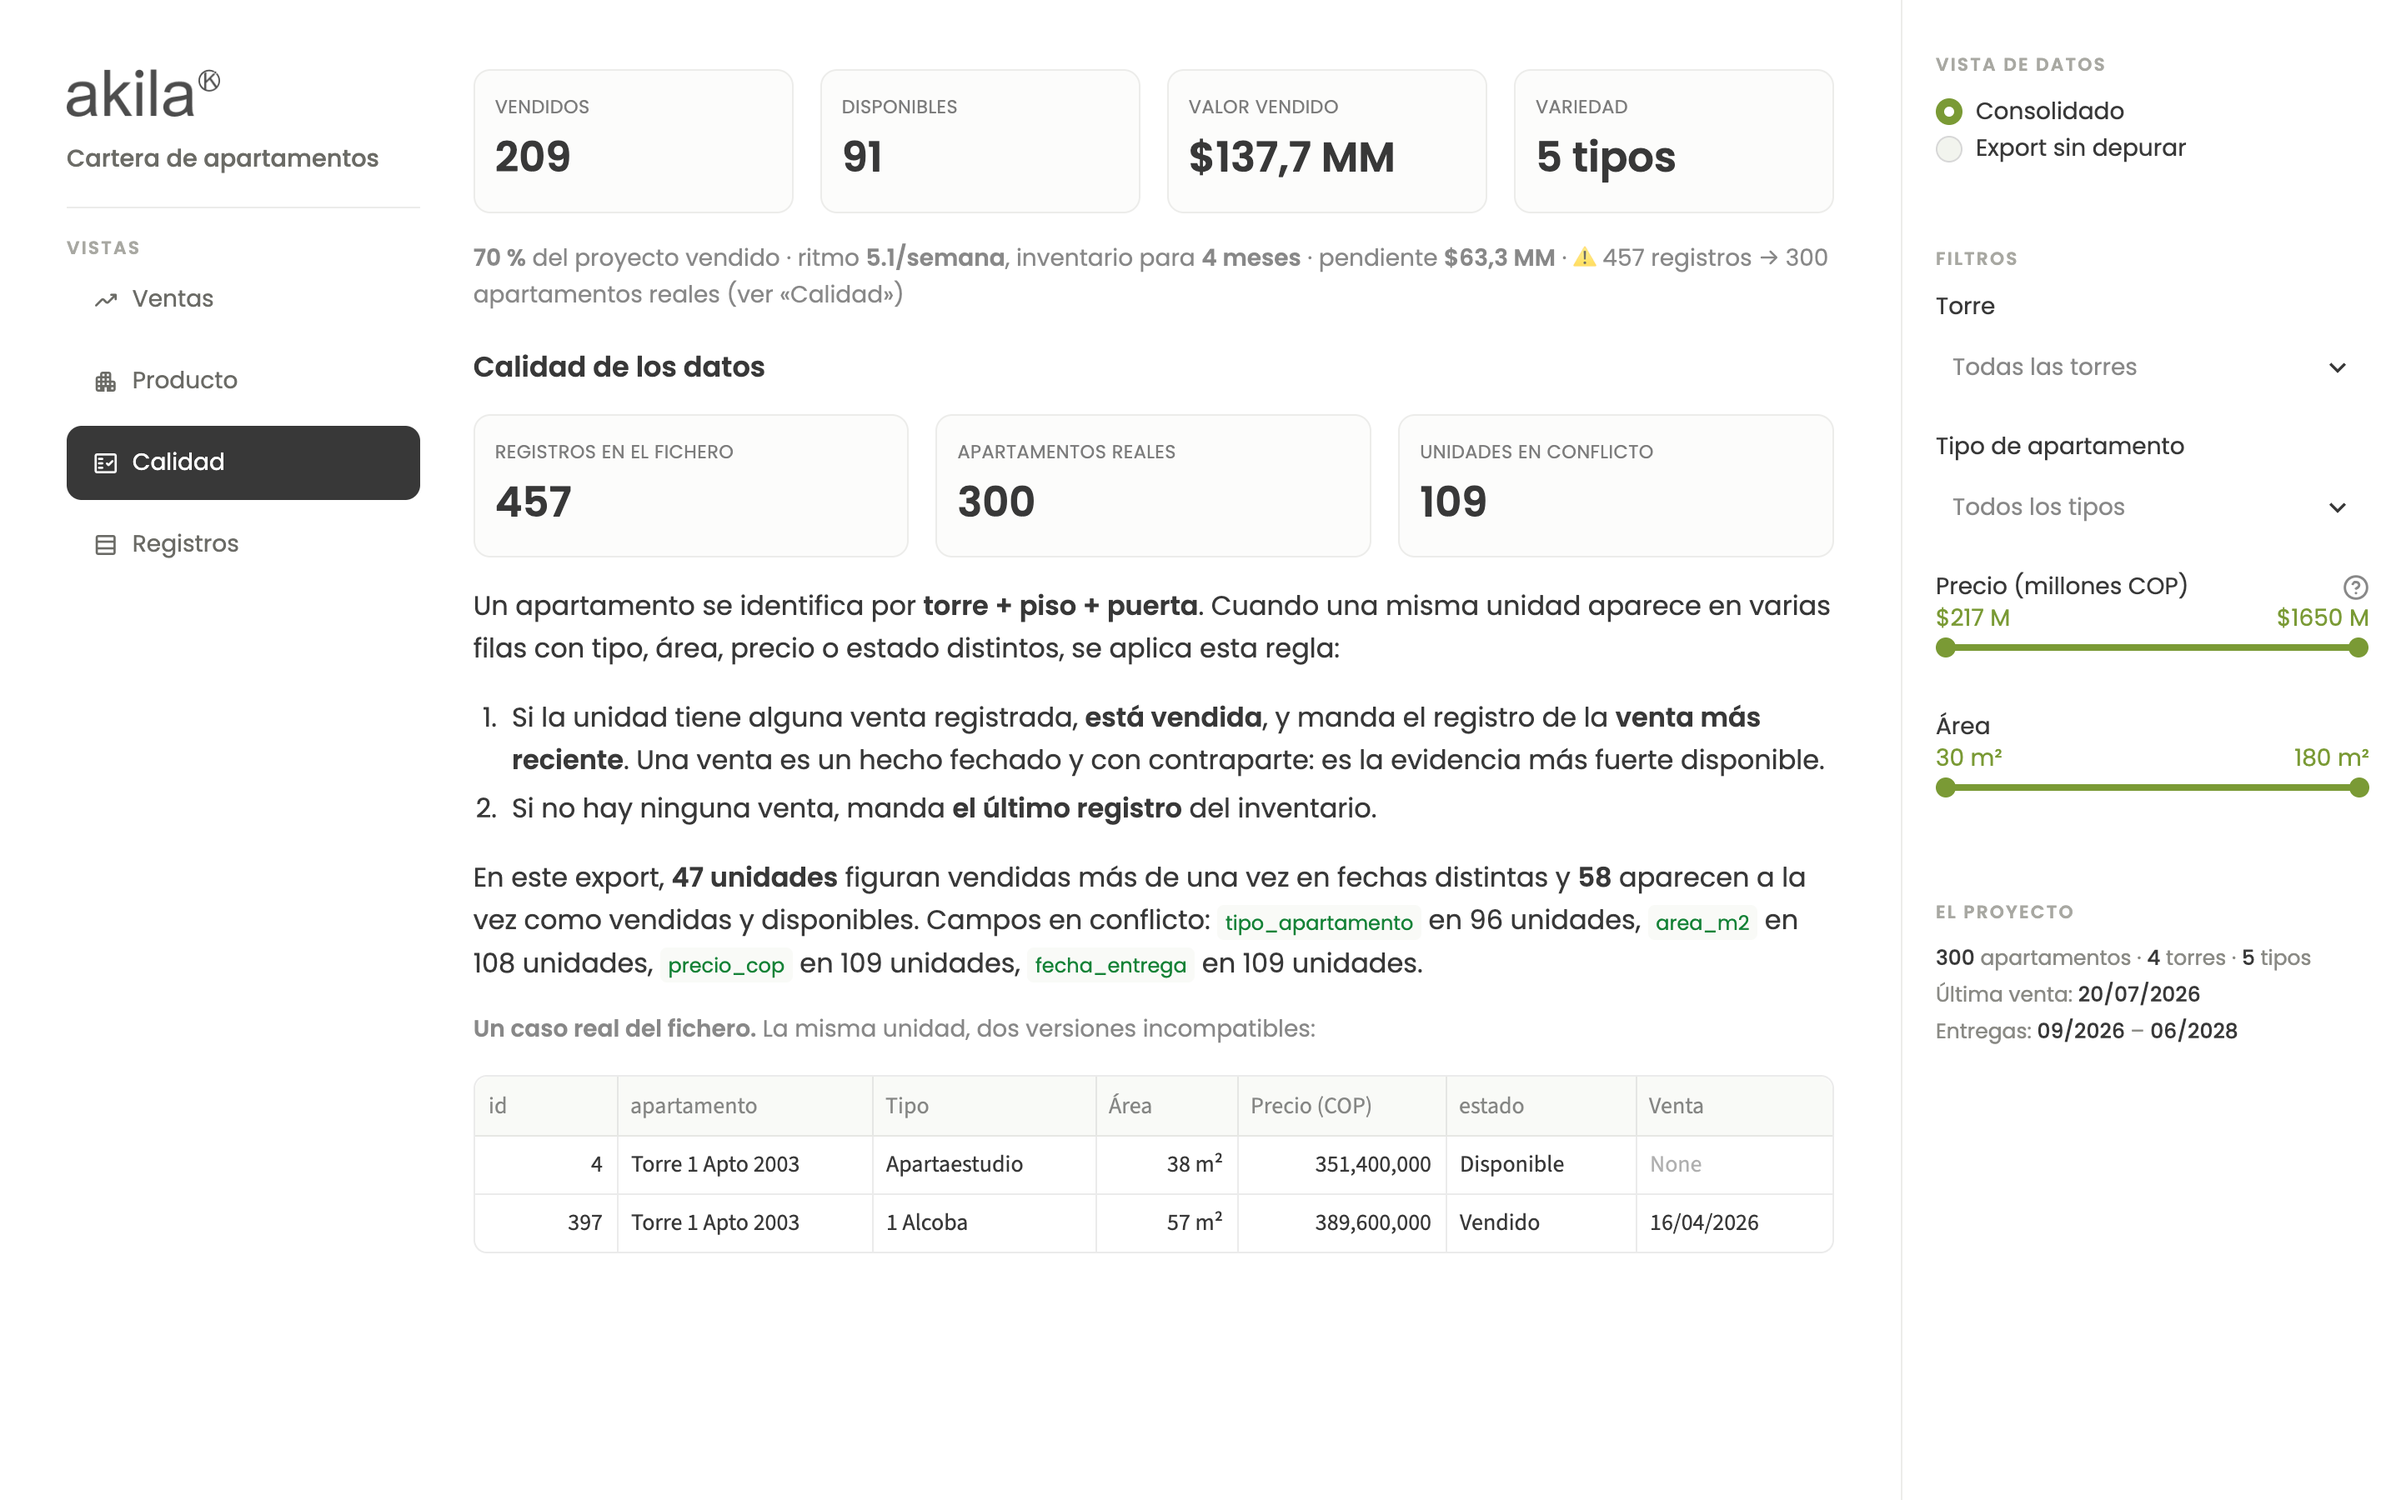
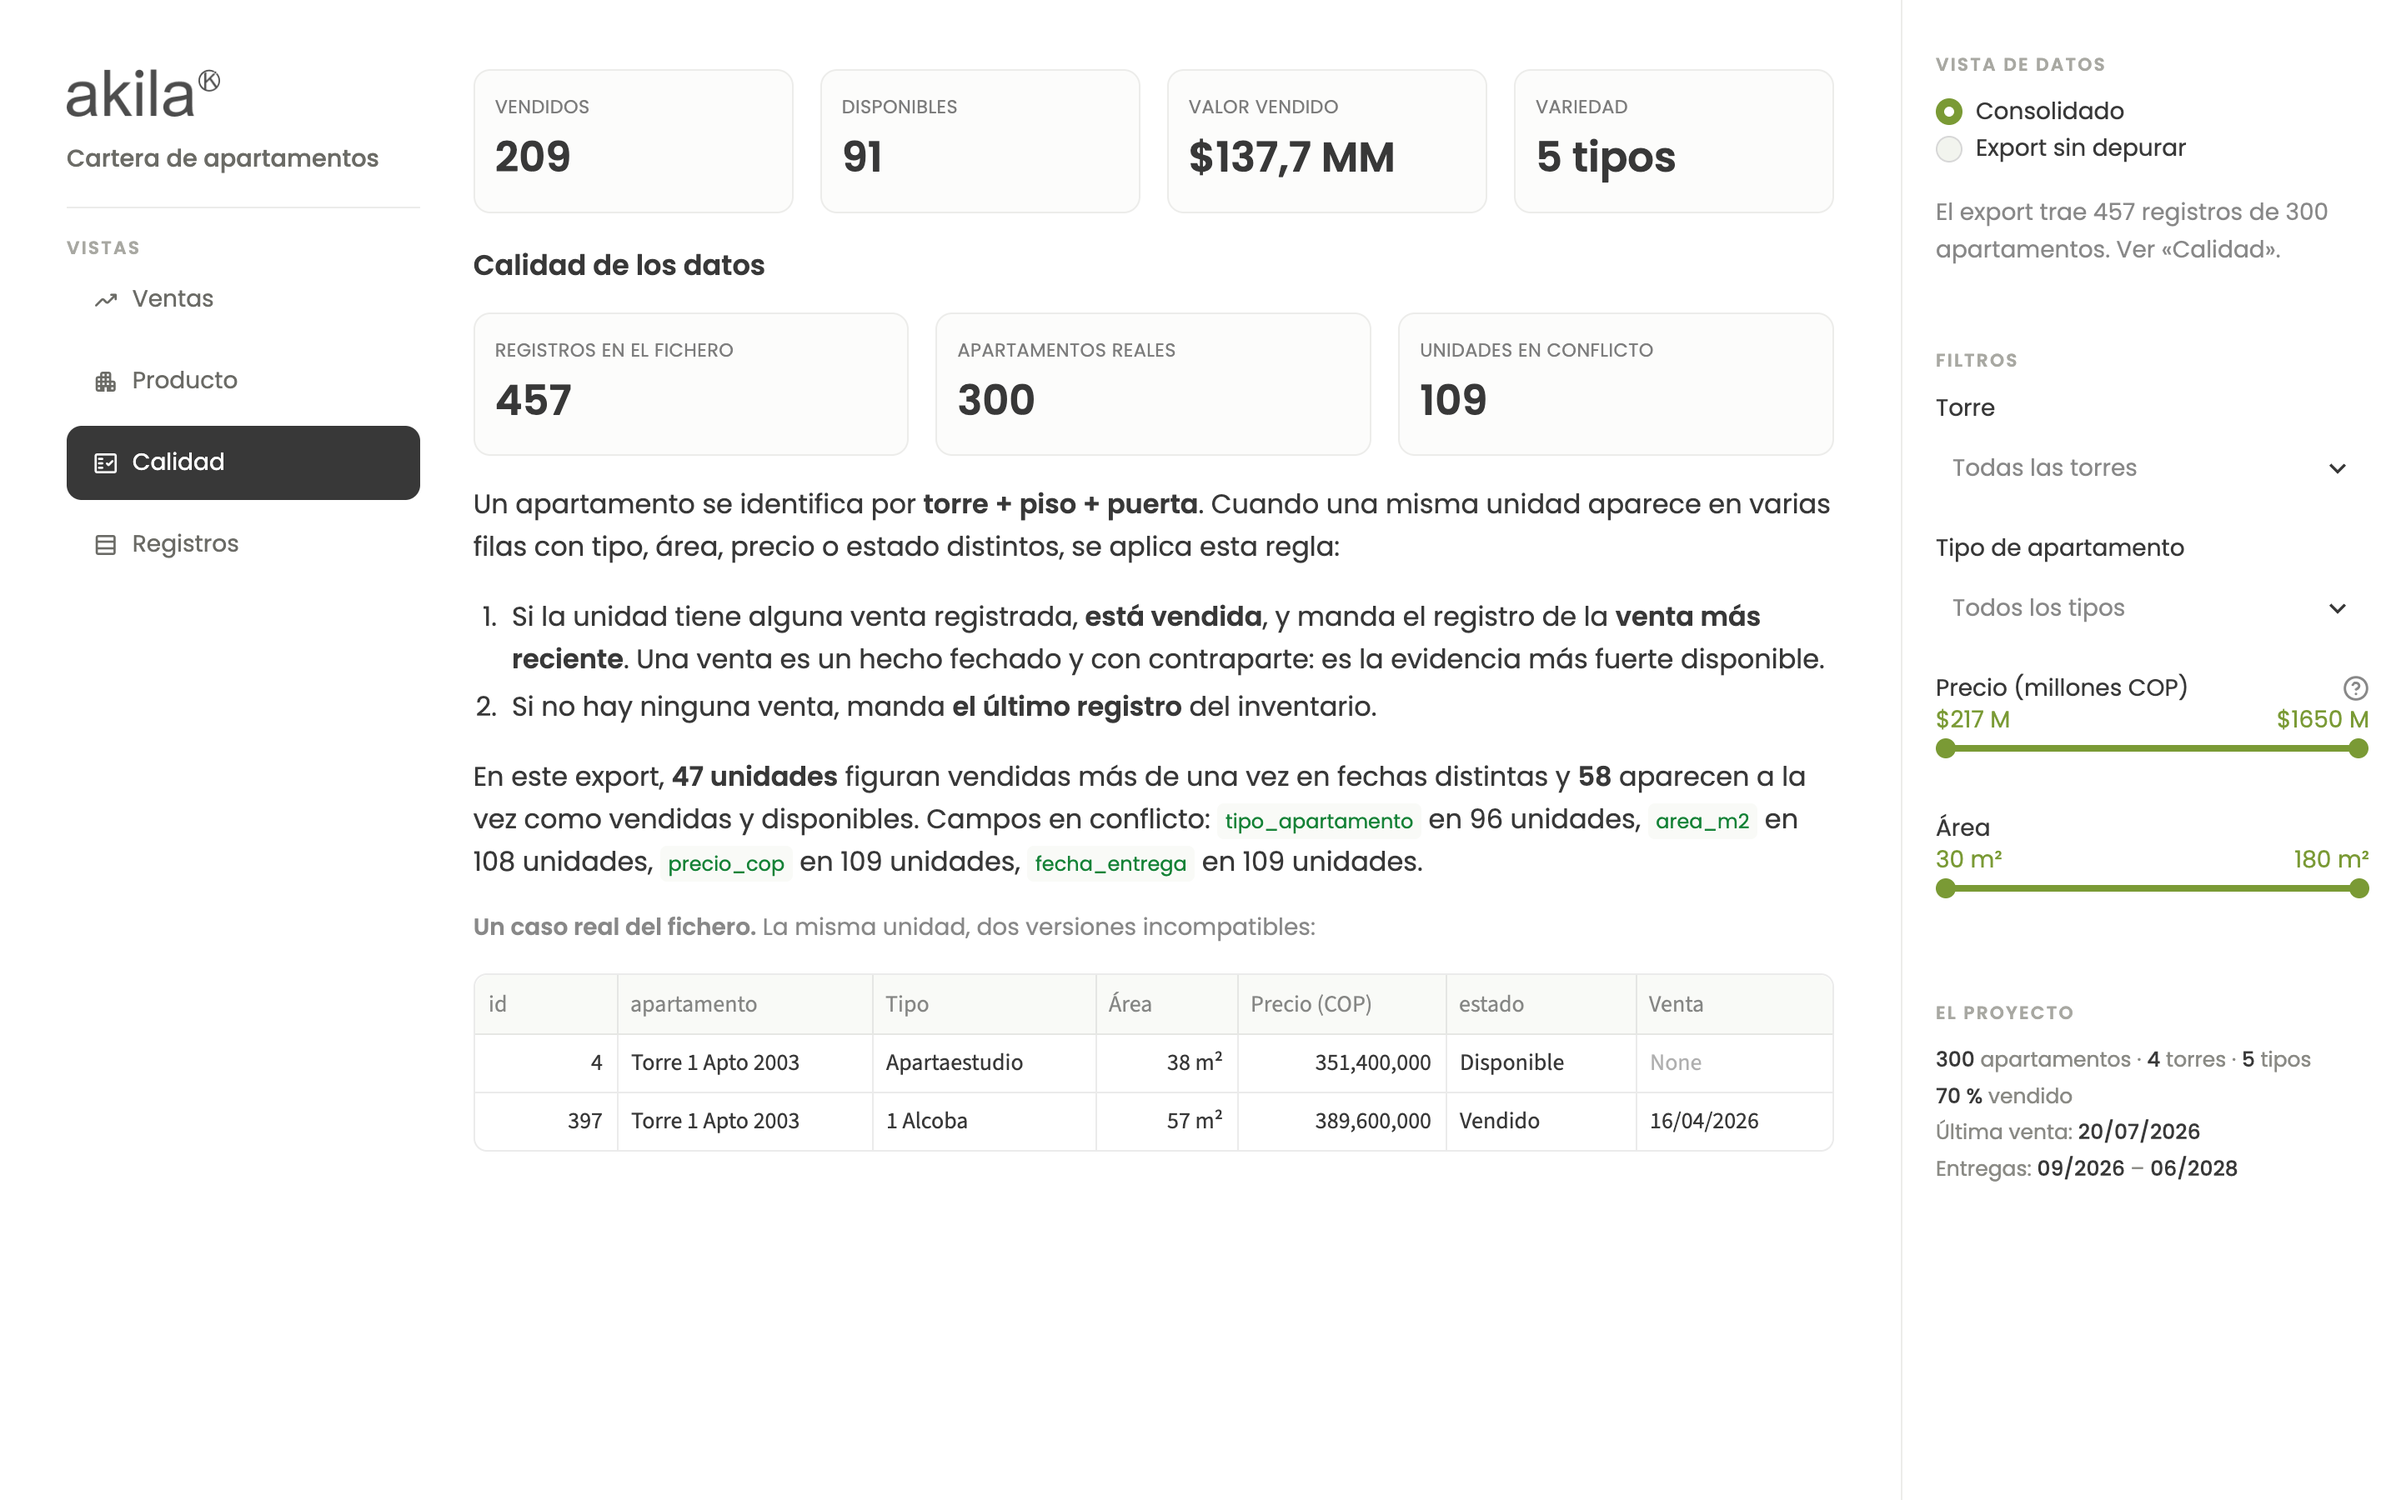
Vacía la cabecera: cada dato de contexto a donde significa algo
El renglón bajo los indicadores encadenaba avance, ritmo, inventario, valor
pendiente y aviso de calidad. Se leía como una nota al pie, no como un tablero.

- Ritmo y meses de inventario pasan debajo del gráfico que los sustenta.
- El aviso de 457 registros → 300 apartamentos va junto al selector de vista de
  datos, que es la elección que motiva.
- El avance del proyecto entra en la ficha del panel derecho.
- El recuento de la selección se muestra bajo los propios filtros, al moverlos.

El gráfico gana unos 100 px de alto. _barra_lateral ya solo devuelve lo que
main() usa. Capturas del README regeneradas.

diff --git a/ejercicio2_dashboard/dashboard/app.py b/ejercicio2_dashboard/dashboard/app.py
@@ -699,6 +699,15 @@ def _barra_lateral(crudo: pd.DataFrame, canonico: pd.DataFrame, informe):
 
         base = crudo if usar_crudo else canonico
 
+        # El aviso de calidad vive junto al selector que lo motiva, no en la
+        # cabecera: aquí explica por qué existe esa elección, y quien quiera el
+        # detalle lo tiene entero en su vista.
+        if informe.hay_conflictos and not usar_crudo:
+            st.caption(
+                f"El export trae {informe.filas_totales} registros de "
+                f"{informe.unidades_unicas} apartamentos. Ver «Calidad»."
+            )
+
         st.markdown('<div class="rotulo">Filtros</div>', unsafe_allow_html=True)
 
         # Dejar la selección vacía significa «todas». Evita que la barra se
@@ -729,6 +738,24 @@ def _barra_lateral(crudo: pd.DataFrame, canonico: pd.DataFrame, informe):
             value=(area_min, area_max), format="%d m²",
         )
 
+        condiciones = (
+            base["precio_cop"].between(
+                rango_precio[0] * 1_000_000, rango_precio[1] * 1_000_000
+            )
+            & base["area_m2"].between(*rango_area)
+        )
+        if torres_sel:
+            condiciones &= base["torre"].isin(torres_sel)
+        if tipos_sel:
+            condiciones &= base["tipo_apartamento"].isin(tipos_sel)
+        filtrado = base[condiciones]
+        hay_filtro = len(filtrado) < len(base)
+
+        # El recuento de la selección va debajo de los propios filtros, que es
+        # donde se mira al moverlos, y solo aparece cuando hay algo filtrado.
+        if hay_filtro:
+            st.caption(f"Viendo {len(filtrado)} de {len(base)} apartamentos.")
+
         # Pie: la ficha del proyecto, no la del fichero. A dirección le dice
         # algo «300 apartamentos en 4 torres»; «apartamentos_akila.csv», no.
         ventas = canonico[canonico["estado"] == ESTADO_VENDIDO]["fecha_venta"].dropna()
@@ -741,6 +768,12 @@ def _barra_lateral(crudo: pd.DataFrame, canonico: pd.DataFrame, informe):
             f"<strong>{canonico['torre'].nunique()}</strong> torres · "
             f"<strong>{canonico['tipo_apartamento'].nunique()}</strong> tipos",
         ]
+        # El avance es del proyecto entero, no de la selección: por eso se
+        # calcula sobre el consolidado y no sobre lo que haya filtrado.
+        if len(canonico):
+            vendidos = int((canonico["estado"] == ESTADO_VENDIDO).sum())
+            avance = vendidos / len(canonico) * 100
+            ficha.append(f"<strong>{avance:.0f} %</strong> vendido")
         if not ventas.empty:
             ficha.append(
                 f"Última venta: <strong>{ventas.max():%d/%m/%Y}</strong>"
@@ -754,17 +787,7 @@ def _barra_lateral(crudo: pd.DataFrame, canonico: pd.DataFrame, informe):
             f'<div class="ficha">{"<br>".join(ficha)}</div>', unsafe_allow_html=True
         )
 
-    condiciones = (
-        base["precio_cop"].between(rango_precio[0] * 1_000_000, rango_precio[1] * 1_000_000)
-        & base["area_m2"].between(*rango_area)
-    )
-    if torres_sel:
-        condiciones &= base["torre"].isin(torres_sel)
-    if tipos_sel:
-        condiciones &= base["tipo_apartamento"].isin(tipos_sel)
-
-    filtrado = base[condiciones]
-    return usar_crudo, base, filtrado, len(filtrado) < len(base)
+    return usar_crudo, filtrado
 
 
 def _kpis(r) -> None:
@@ -794,7 +817,7 @@ def _kpis(r) -> None:
             st.metric(etiqueta, valor)
 
 
-def _pestana_ventas(df: pd.DataFrame) -> None:
+def _pestana_ventas(df: pd.DataFrame, r) -> None:
     """Filtros propios del periodo comercial, donde su alcance es evidente."""
     vendidos = df[df["estado"] == ESTADO_VENDIDO]
     if vendidos.empty:
@@ -840,6 +863,15 @@ def _pestana_ventas(df: pd.DataFrame) -> None:
             ventas_por_semana(en_periodo), medir_valor, media_movil=True
         )
     st.altair_chart(grafico, use_container_width=True)
+
+    # El ritmo y los meses de inventario son la lectura del gráfico, no una
+    # cifra de cabecera: puestos aquí se leen junto a las barras que los
+    # explican, y no compiten por el alto de la pantalla.
+    if r.meses_inventario is not None:
+        st.caption(
+            f"Ritmo del último trimestre: {r.ritmo_semanal_reciente:.1f} "
+            f"apartamentos/semana · inventario para {r.meses_inventario:.0f} meses."
+        )
 
 
 def _pestana_producto(df: pd.DataFrame) -> None:
@@ -943,7 +975,7 @@ def main() -> None:
         st.error(f"No se pudieron cargar los datos.\n\n{exc}")
         st.stop()
 
-    usar_crudo, base, df, hay_filtro = _barra_lateral(crudo, canonico, informe)
+    usar_crudo, df = _barra_lateral(crudo, canonico, informe)
 
     if usar_crudo:
         st.error(
@@ -973,24 +1005,11 @@ def main() -> None:
     with contenido:
         _kpis(r)
 
-        # Una sola línea de contexto bajo los indicadores. Cada línea que se
-        # añade aquí baja el gráfico y le recorta el eje de meses, así que todo
-        # lo que no sea una cifra de cabecera se resume en este renglón.
-        partes = [f"**{r.porcentaje_avance:.0f} %** del proyecto vendido"]
-        if r.meses_inventario is not None:
-            partes.append(
-                f"ritmo **{r.ritmo_semanal_reciente:.1f}/semana**, inventario para "
-                f"**{r.meses_inventario:.0f} meses**"
-            )
-        partes.append(f"pendiente **{formato_cop(r.valor_disponible_cop)}**")
-        if hay_filtro:
-            partes.append(f"filtrando **{len(df)} de {len(base)}**")
-        if informe.hay_conflictos and not usar_crudo:
-            partes.append(
-                f"⚠ {informe.filas_totales} registros → {informe.unidades_unicas} "
-                "apartamentos reales (ver «Calidad»)"
-            )
-        st.caption(" · ".join(partes))
+        # Bajo los indicadores no va nada más. Un renglón que encadena avance,
+        # ritmo, inventario, valor pendiente y aviso de calidad se lee como una
+        # nota al pie y no como un tablero: cada dato de ese resumen tiene ya su
+        # sitio —el ritmo y el inventario en «Ventas», el recuento de registros
+        # en «Calidad», el estado del proyecto en el panel de la derecha—.
 
         # El rótulo de navegación es de una palabra, así que cada vista se
         # presenta con su nombre completo: es donde se explica qué se está
@@ -998,7 +1017,7 @@ def main() -> None:
         if vista == VISTAS[0].nombre:
             st.markdown('<div class="titulo-vista">Ventas por semana</div>',
                         unsafe_allow_html=True)
-            _pestana_ventas(df)
+            _pestana_ventas(df, r)
         elif vista == VISTAS[1].nombre:
             st.markdown('<div class="titulo-vista">Producto e inventario</div>',
                         unsafe_allow_html=True)

diff --git a/ejercicio2_dashboard/README.md b/ejercicio2_dashboard/README.md
@@ -45,8 +45,9 @@ Mismo apartamento físico (torre, piso y puerta), dos versiones incompatibles.
 | Total del proyecto | 457 | **300** |
 
 Presentar «271 vendidos» sería reportar un 30 % de ventas que no existen. Por eso
-el dashboard **no esconde el problema**: lo enseña arriba del todo, explica la
-regla que aplica y deja comparar ambas lecturas con un selector.
+el dashboard **no esconde el problema**: lo avisa junto al selector de vista de
+datos, explica la regla que aplica en su propia pestaña y deja comparar ambas
+lecturas.
 
 ![El mismo dashboard leyendo el export sin depurar](../docs/capturas/dashboard-datos-crudos.png)
 
@@ -109,10 +110,10 @@ dashboard: está en el proceso que genera el export.
 
 **Y lo que dirección pregunta a continuación:**
 
-- **Ritmo comercial reciente** — media de apartamentos por semana del último
-  trimestre.
-- **Meses de inventario** — a ese ritmo, cuánto queda hasta agotar lo disponible.
-  Es la respuesta directa a «¿cómo va el proyecto?».
+- **Ritmo comercial reciente y meses de inventario** — media de apartamentos por
+  semana del último trimestre y, a ese ritmo, cuánto queda hasta agotar lo
+  disponible. Es la respuesta directa a «¿cómo va el proyecto?», y va debajo del
+  gráfico de ventas, que es lo que la sustenta.
 - **Inventario por tipo** — dónde se está quedando el producto sin colocar. Cada
   tipo con su color, lo vendido en tono sólido y lo libre en el mismo color
   atenuado, para que la barra se lea como avance.
@@ -156,9 +157,16 @@ maximizado. Verificado en ocho tamaños, de 1024 × 768 a 1920 × 1080.
 
 Para conseguirlo, el encabezado se mantiene deliberadamente corto: la marca y
 el título viven en la columna de navegación, los indicadores no llevan chips de
-variación y todo el
-contexto —avance, ritmo, inventario, aviso de calidad— cabe en un solo renglón.
-Cada línea que se añada ahí le quita altura al gráfico.
+variación y **debajo de ellos no va nada**. Cada línea que se añada ahí le quita
+altura al gráfico.
+
+Esa disciplina también es de lectura, no solo de espacio. Un renglón de resumen
+que encadene avance, ritmo, inventario, valor pendiente y aviso de calidad se
+lee como una nota al pie: mucha cifra suelta sin nada que la ordene. Cada uno de
+esos datos tiene un sitio donde significa algo —el ritmo y los meses de
+inventario debajo del gráfico que los explica, el recuento de registros junto al
+selector de vista de datos que motiva, el avance y el tamaño del proyecto en su
+ficha—, y ahí es donde están.
 
 ### Filtros
 
